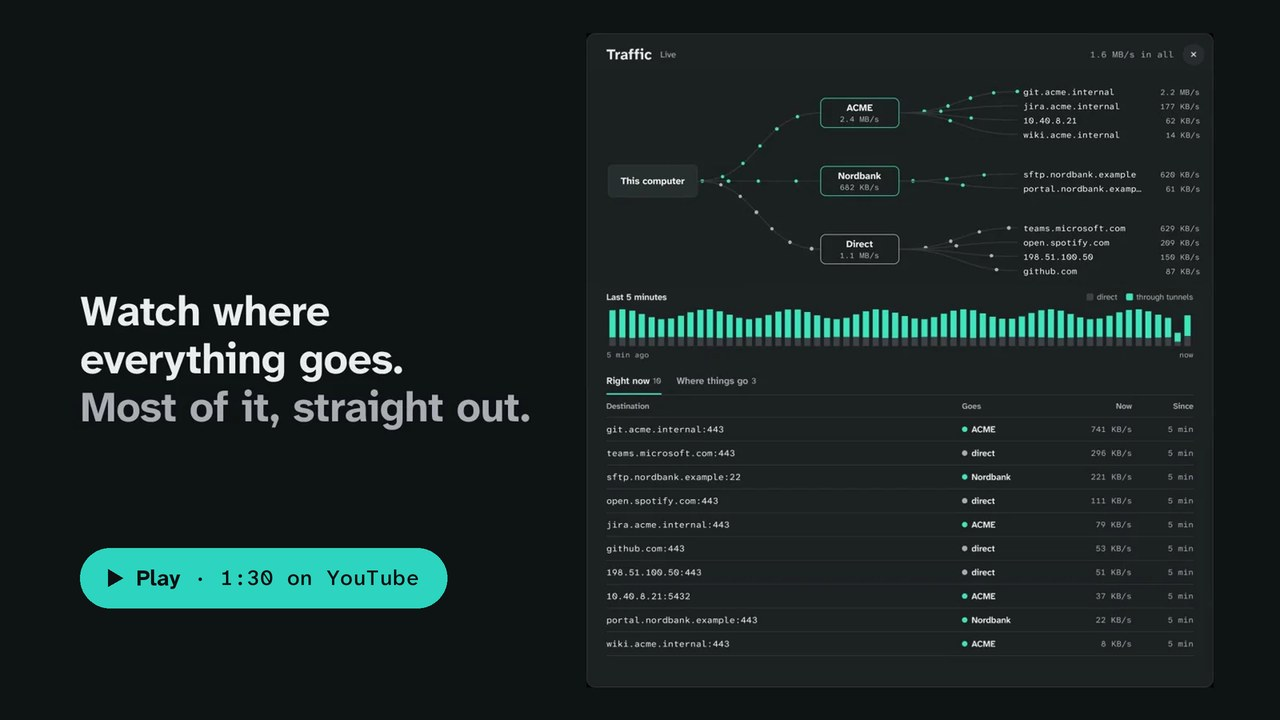
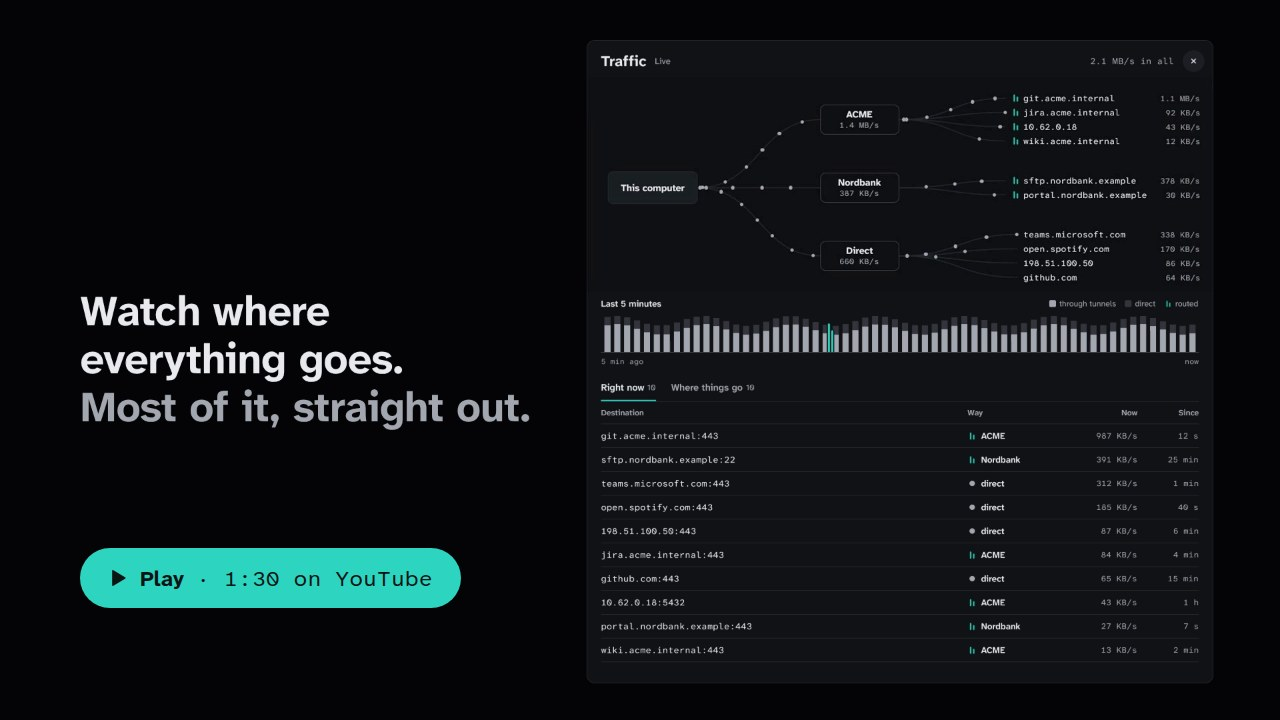
README: the film again, with today's app
The ninety-second film re-recorded from 0.10 (the new bird, the audit's
windows, a real Undo, the profile edited key by key, Traffic's ticks), on
YouTube under a new link; its poster is a frame of the new cut.

diff --git a/README.md b/README.md
@@ -30,7 +30,7 @@ only answers from inside, and then routes just that host and tells you why, in o
 ago. Neither knows what you actually open.**
 
 <p align="center">
-  <a href="https://youtu.be/snQUfK75huY"><img src="docs/media/video.jpg" alt="Crake in ninety seconds: a narrated video on YouTube. Watch where everything goes. Most of it, straight out." width="760" /></a>
+  <a href="https://youtu.be/VRwNp1UAEfM"><img src="docs/media/video.jpg" alt="Crake in ninety seconds: a narrated video on YouTube. Watch where everything goes. Most of it, straight out." width="760" /></a>
 </p>
 
 |        | Step                 | How                                                                                       |
